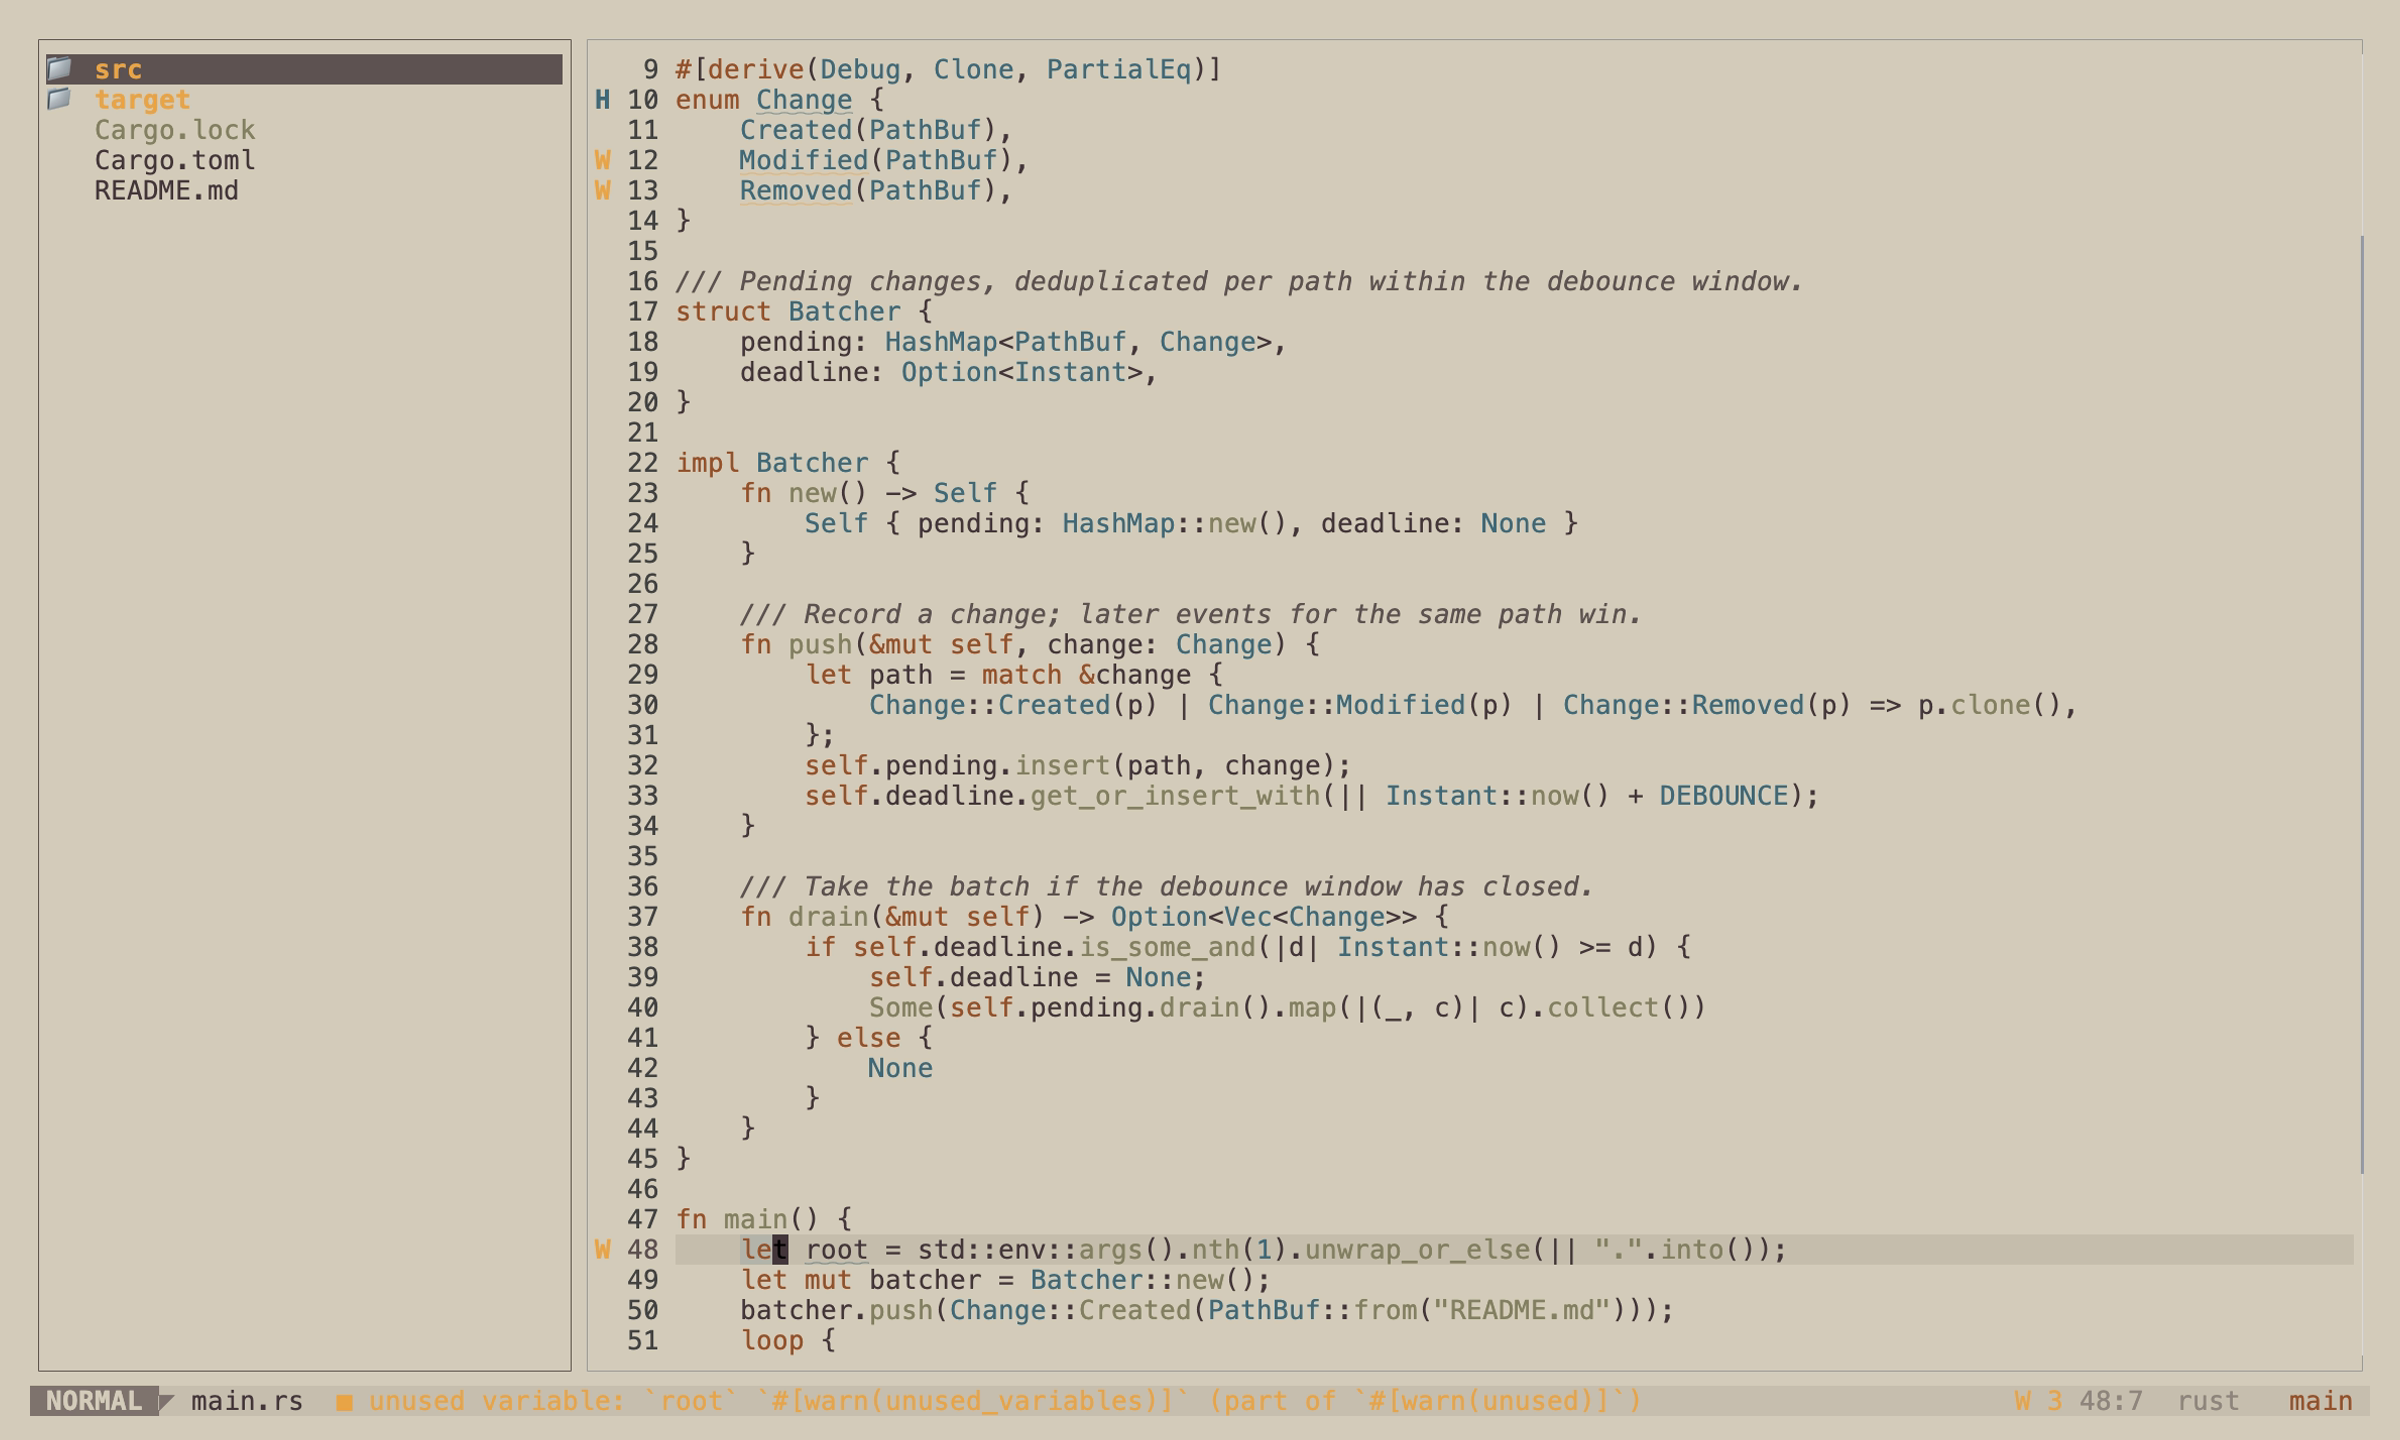
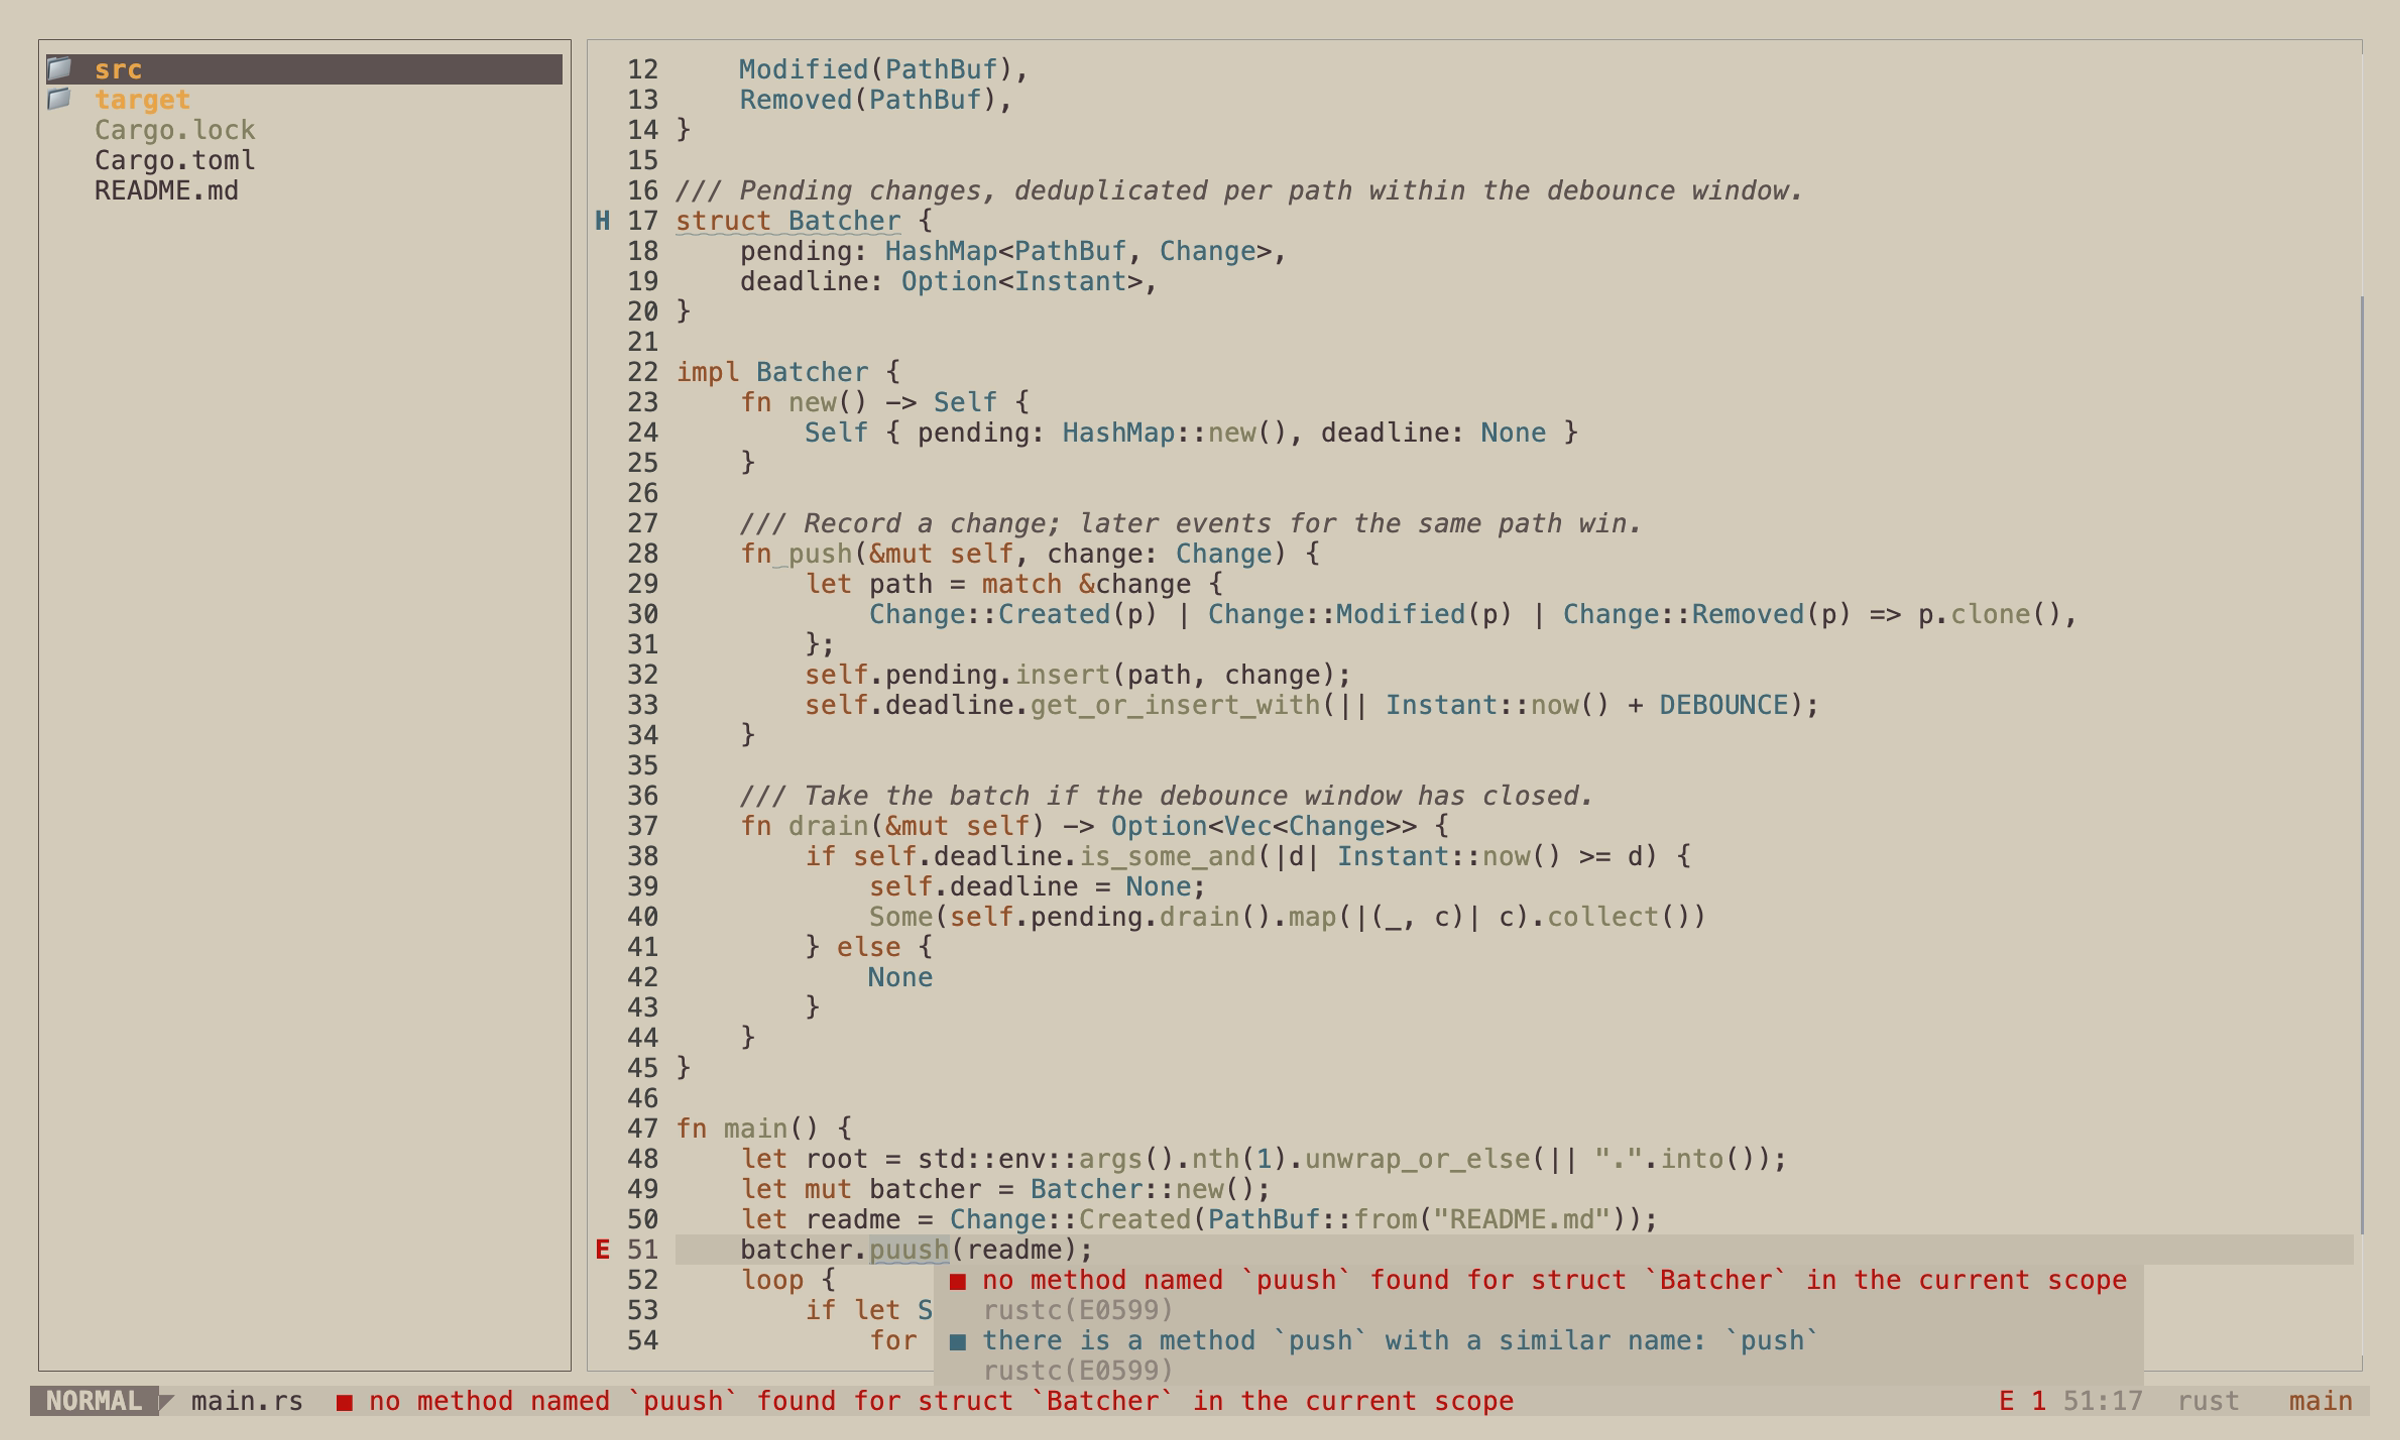
Demo folder: error-fix + hover choreography with word motions

diff --git a/demo/README.md b/demo/README.md
@@ -1,0 +1,11 @@
+# demo
+
+recording tooling for the README shots.
+
+```sh
+demo/record.sh   # -> assets/hero-{light,dark}.png + assets/demo-{light,dark}.gif
+```
+
+`workspace.sh` builds a throwaway project in `/tmp/vibin-demo` so no real
+paths or chat history appear; `demo.tape.tmpl` is the vhs tape, rendered
+once per theme (Belafonte Day / Belafonte Night).